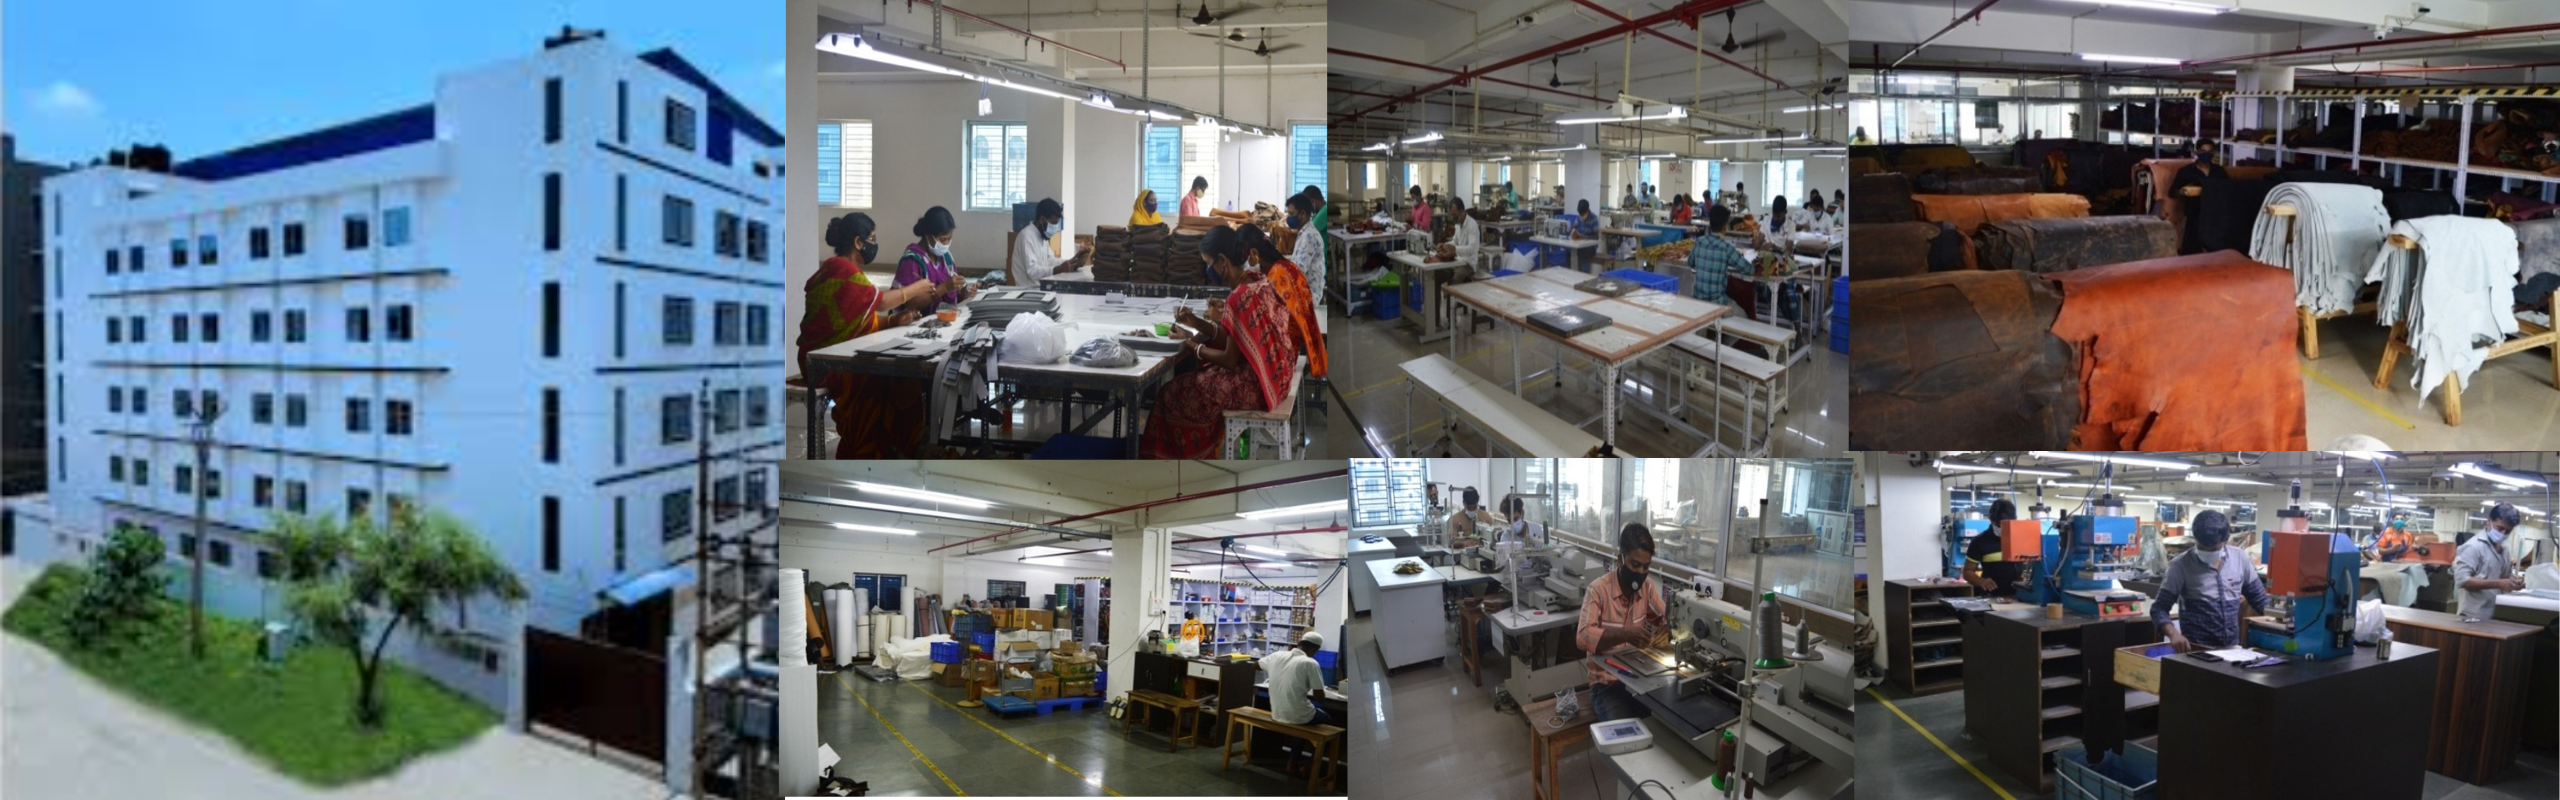
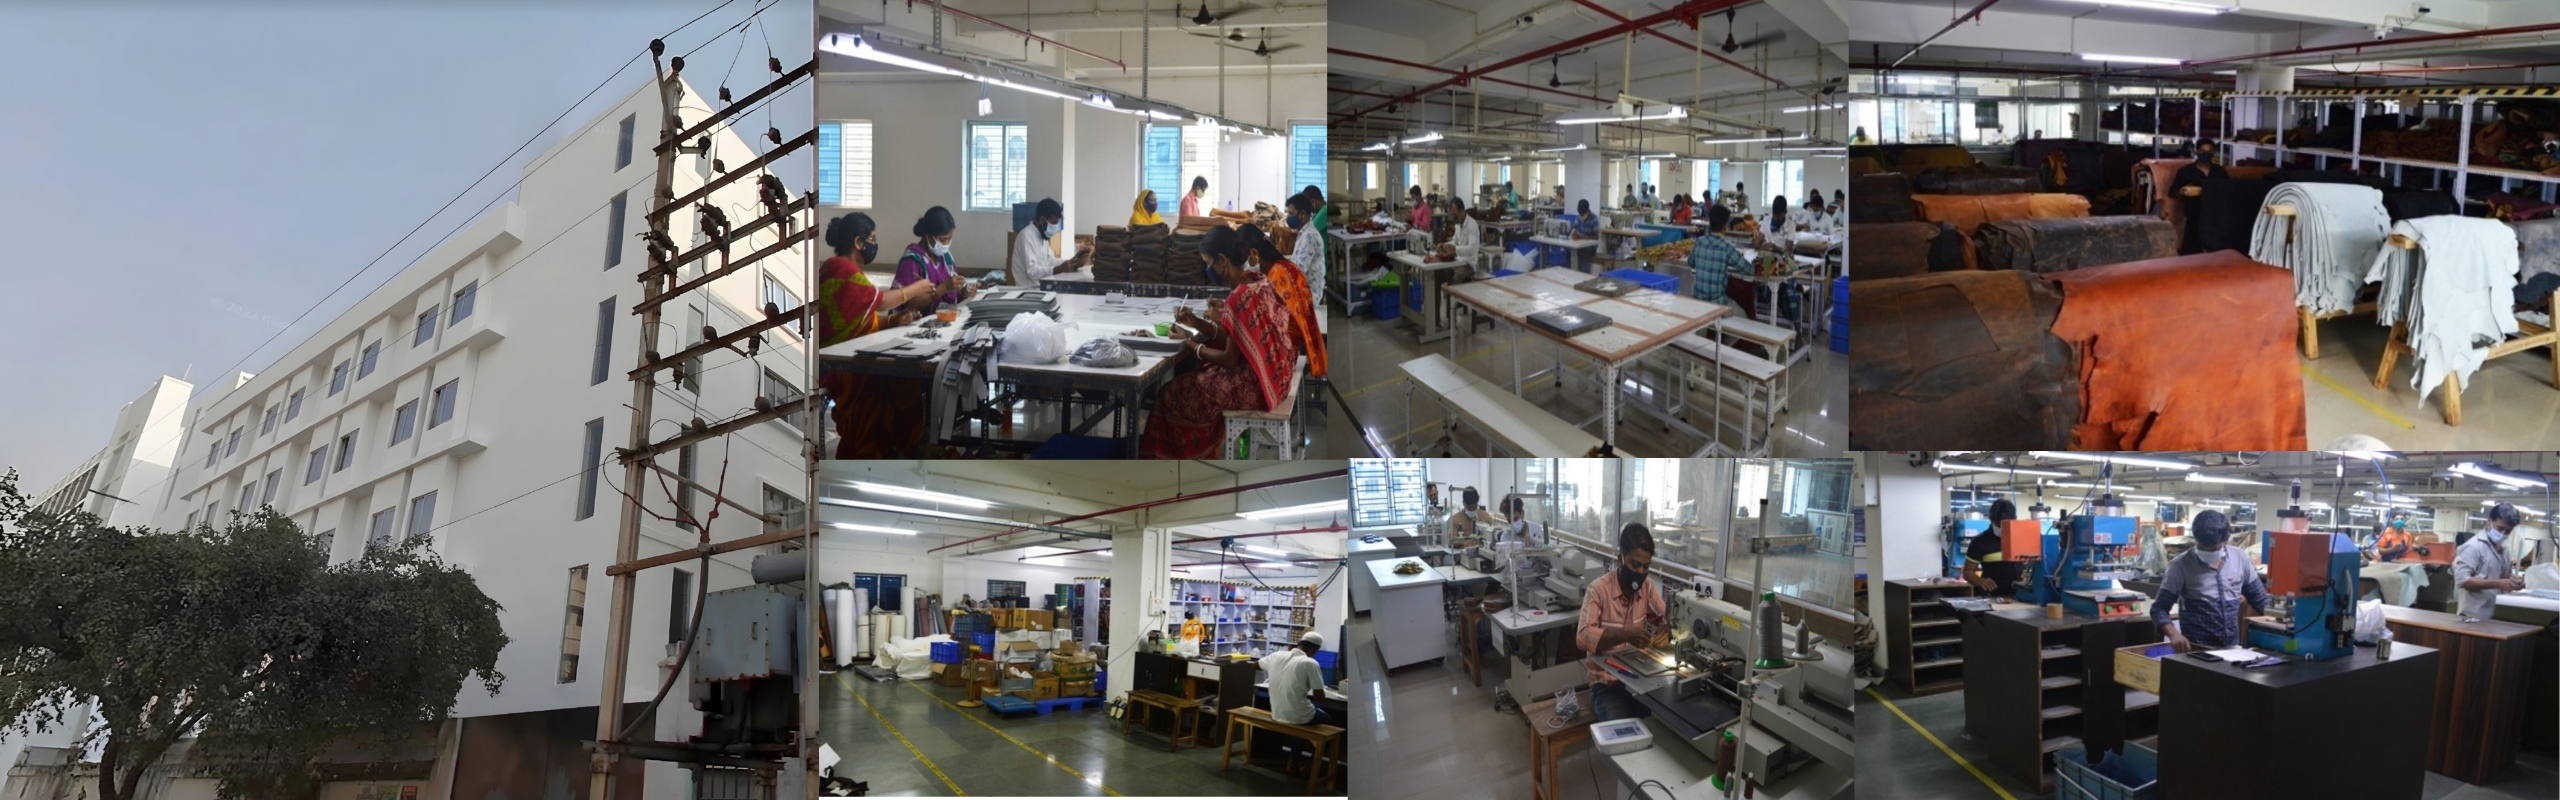
changed product images and added socal media

diff --git a/src/components/home/contact/Contactus.tsx b/src/components/home/contact/Contactus.tsx
@@ -3,8 +3,8 @@
 import type React from "react"
 import { useState } from "react"
 import { motion } from "framer-motion"
-import { Instagram, Mail, Phone, ArrowUpRight, Facebook } from "lucide-react"
-import { FaLinkedin, FaWhatsapp } from "react-icons/fa"
+import { Instagram, ArrowUpRight, Facebook } from "lucide-react"
+import { FaLinkedin } from "react-icons/fa"
 import Wrapper from "../Wrapper" // adjust this path if your Wrapper is located elsewhere
 
 function Contactus() {
@@ -109,17 +109,14 @@ function Contactus() {
                             <motion.div variants={itemVariants as any} className="flex flex-col gap-4 pt-8 border-t border-zinc-800">
                                 <span className="text-xs font-semibold tracking-widest text-zinc-500 uppercase">Follow Us</span>
                                 <div className="flex items-center gap-4">
-                                    <a href="#" className="w-12 h-12 rounded-full border border-zinc-800 flex items-center justify-center hover:bg-white hover:text-black hover:border-white transition-all duration-300">
+                                    <a href="https://www.linkedin.com/company/eurointernational" target="_blank" className="w-12 h-12 rounded-full border border-zinc-800 flex items-center justify-center hover:bg-white hover:text-black hover:border-white transition-all duration-300">
                                         <FaLinkedin className="w-5 h-5" />
                                     </a>
-                                    <a href="#" className="w-12 h-12 rounded-full border border-zinc-800 flex items-center justify-center hover:bg-white hover:text-black hover:border-white transition-all duration-300">
+                                    <a href="https://www.instagram.com/eurointernational_/" target="_blank" className="w-12 h-12 rounded-full border border-zinc-800 flex items-center justify-center hover:bg-white hover:text-black hover:border-white transition-all duration-300">
                                         <Instagram className="w-5 h-5" />
                                     </a>
-                                    <a href="#" className="w-12 h-12 rounded-full border border-zinc-800 flex items-center justify-center hover:bg-white hover:text-black hover:border-white transition-all duration-300">
+                                    <a href="https://www.facebook.com/share/1L6oc2mV8q/" target="_blank" className="w-12 h-12 rounded-full border border-zinc-800 flex items-center justify-center hover:bg-white hover:text-black hover:border-white transition-all duration-300">
                                         <Facebook className="w-5 h-5" />
-                                    </a>
-                                    <a href="#" className="w-12 h-12 rounded-full border border-zinc-800 flex items-center justify-center hover:bg-white hover:text-black hover:border-white transition-all duration-300">
-                                        <FaWhatsapp className="w-5 h-5" />
                                     </a>
                                 </div>
                             </motion.div>

diff --git a/src/components/home/products/ProcuctSlider.tsx b/src/components/home/products/ProcuctSlider.tsx
@@ -24,43 +24,48 @@ const sampleProducts: Product[] = [
 
     {
         id: "p1",
-        image: "/images/products/item3.png",
+        image: "/images/productswithmodel/1.png",
         alt: "p4",
     },
     {
         id: "p2",
-        image: "/images/products/beltimage.png",
+        image: "/images/productswithmodel/2.png",
         alt: "p25",
     },
     {
         id: "p3",
-        image: "/images/products/item4.png",
+        image: "/images/productswithmodel/3.png",
         alt: "p11",
     },
     {
         id: "p4",
-        image: "/images/products/item5.png",
+        image: "/images/productswithmodel/4.png",
         alt: "p10",
     },
     {
         id: "p5",
-        image: "/images/products/item6.png",
+        image: "/images/productswithmodel/5.png",
         alt: "p25",
     },
      {
         id: "p6",
-        image: "/images/products/item7.png",
+        image: "/images/productswithmodel/6.png",
         alt: "p4",
     },
     {
         id: "p8",
-        image: "/images/products/item9.png",
+        image: "/images/productswithmodel/7.png",
         alt: "p10",
     },
     {
         id: "p9",
-        image: "/images/products/bag1.png",
+        image: "/images/productswithmodel/8.png",
         alt: "p25",
+    },
+    {
+        id: "p10",
+        image: "/images/productswithmodel/9.png",
+        alt: "p10",
     },
 ]
 
@@ -164,12 +169,12 @@ export default function ProductSlider({
                         {products.map((p, idx) => (
                             <SwiperSlide key={p.id || idx} className="h-auto">
                                 {/* The Card */}
-                                <div className="group relative aspect-[4/5] w-full overflow-hidden rounded-2xl bg-[#F9F9F6] cursor-grab active:cursor-grabbing">
+                                <div className="group relative aspect-[4/5] w-full overflow-hidden rounded-2xl bg-[#efeae7] cursor-grab active:cursor-grabbing">
                                     <img 
                                         src={p.image || "/placeholder.svg"} 
                                         alt={p.alt} 
                                         // object-cover looks more premium for lifestyle. If product cutouts, use object-contain
-                                        className="h-full w-full object-contain object-center transition-transform duration-700 ease-out group-hover:scale-105" 
+                                        className="h-full w-full object-cover object-center transition-transform duration-700 ease-out group-hover:scale-105" 
                                     />
                                     {/* Subtle overlay on hover */}
                                     <div className="absolute inset-0 bg-black/0 transition-colors duration-500 group-hover:bg-black/10" />

diff --git a/src/components/home/hero/Hero.tsx b/src/components/home/hero/Hero.tsx
@@ -46,7 +46,7 @@ function Hero() {
                     fill
                     priority
                     alt='Premium Leather Hero'
-                    src="/images/hero/l2.jpeg" // Make sure this path is correct
+                    src="/images/hero/l3.png" // Make sure this path is correct
                 />
             </motion.div>
 
@@ -85,7 +85,7 @@ function Hero() {
                                 whileTap={{ scale: 0.95 }}
                                 className='group flex items-center justify-center w-12 h-12 rounded-full bg-white text-black hover:bg-zinc-200 transition-colors'
                             >
-                                <MapPin className='w-5 h-5 transition-transform group-hover:scale-110' />
+                                <MapPin className='w-5 h-5 cursor-pointer transition-transform group-hover:scale-110' />
                             </motion.button>
                         </SheetTrigger>
                         

diff --git a/src/components/home/about/Section1.tsx b/src/components/home/about/Section1.tsx
@@ -137,7 +137,7 @@ function Section1() {
           >
             <Image 
                             fill 
-                            src="/images/products/item8.png"
+                            src="/images/productswithmodel/h.png"
                             alt='Premium Leather Crafting' 
                             className='object-cover object-center'
                             sizes="(max-width: 768px) 100vw, 50vw"
